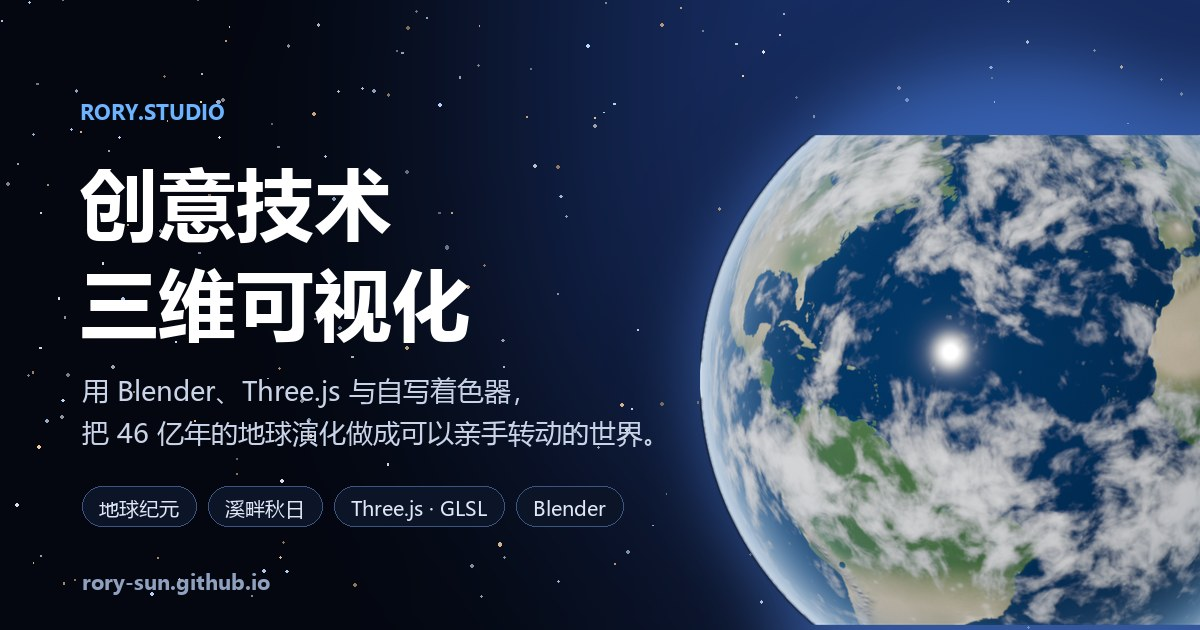
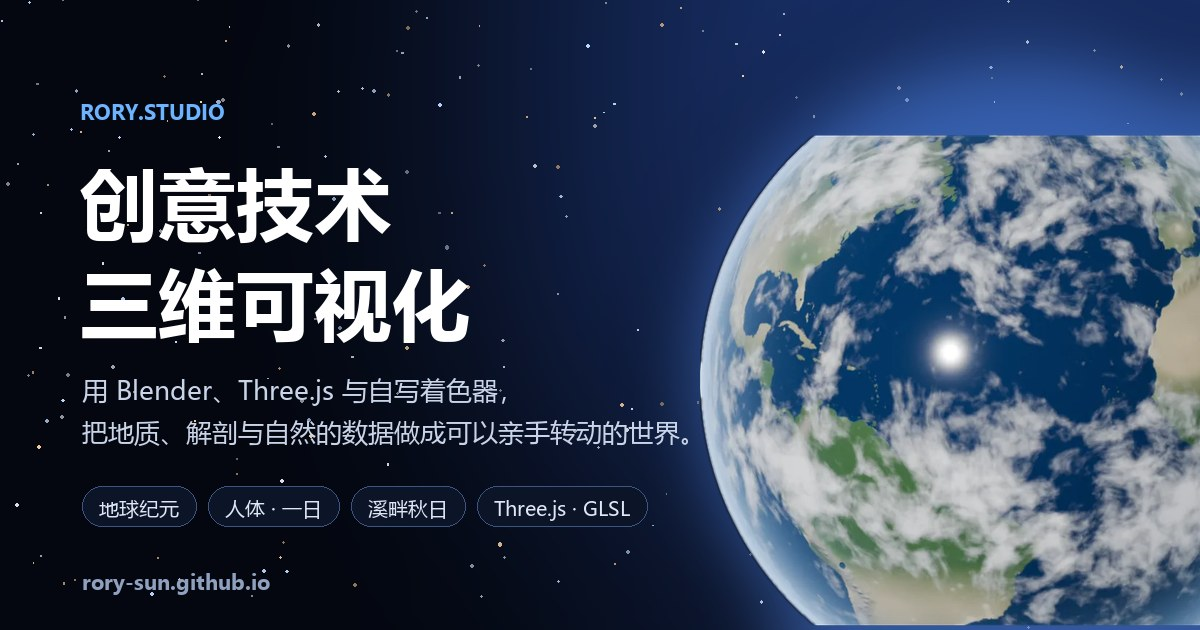
Add 人体 · 一日 as the second product; derive a darker per-product accent for the light theme
人体 · 一日 (https://rory-sun.github.io/blender-designer/anatomy/) is a separate product, not a mode of
溪畔秋日 - 2331 real anatomical parts from Z-Anatomy / BodyParts3D, seven toggleable systems, a 24h
timeline driving organ rhythms. It goes second so the three products read as a contracting scale:
a planet's 4.6 billion years, a body's day, a village's afternoon.

- products.js: new record with a self-hosted 16:9 poster cropped from the live app
- deliberately NO embed. Measured: the GLB alone is 28.9MB and the three-column lab UI never finished
  loading in a 1000x563 frame. New optional `demoNote` field carries the reason under the button;
  validate-products.mjs and site.js know about it
- hero: the lede named 地球纪元 as "the latest work" and all three stats came from it, which stopped
  being true with a third product. Now the lede names all three and the stats span them
- meta description, og:description and og.jpg regenerated for three products; the og generator is now
  a committed script (scripts/make-og.py) instead of a throwaway
- light theme: products set --accent-raw, and the light theme derives a 68%-darkened --accent from it.
  The raw values are chosen for the dark ground, which left them too light for 12px text (地球纪元's
  #3d8ee6 was only 3.2:1 on #f3f5fa). All three products now clear 4.5:1
- screenshots.mjs: await img.decode() rather than img.complete, which was capturing black posters
[…]

Changed region(s): [[0.0617, 0.6032, 0.5858, 0.7238], [0.185, 0.754, 0.5242, 0.8444], [0.74, 0.9651, 0.8017, 0.9952]]

diff --git a/index.html b/index.html
@@ -5,7 +5,7 @@
   <script>try{var t=localStorage.getItem('rory-theme');if(t==='light'||t==='dark')document.documentElement.dataset.theme=t}catch(e){}</script>
   <meta name="viewport" content="width=device-width, initial-scale=1" />
   <title>Rory · 创意技术与三维可视化</title>
-  <meta name="description" content="Rory 的个人网站：作品、产品与实验。主打产品「地球纪元」——一个用 Blender 与 Three.js 打造的 46 亿年地球演化交互平台。" />
+  <meta name="description" content="Rory 的个人网站：用 Blender、Three.js 与自写着色器做的三件交互式三维作品——回放 46 亿年的「地球纪元」、由真实解剖数据构建的「人体 · 一日」、可以慢下来的「溪畔秋日」。" />
   <link rel="canonical" href="https://rory-sun.github.io/" />
   <meta name="theme-color" content="#04070f" />
   <meta name="author" content="Rory" />
@@ -16,7 +16,7 @@
   <meta property="og:locale" content="zh_CN" />
   <meta property="og:url" content="https://rory-sun.github.io/" />
   <meta property="og:title" content="Rory · 创意技术与三维可视化" />
-  <meta property="og:description" content="用 Blender、Three.js 与自写着色器，把 46 亿年的地球演化做成可以亲手转动的世界。作品：地球纪元、溪畔秋日。" />
+  <meta property="og:description" content="用 Blender、Three.js 与自写着色器，把地质、解剖与自然的数据做成可以亲手转动的世界。三件作品：地球纪元、人体 · 一日、溪畔秋日。" />
   <meta property="og:image" content="https://rory-sun.github.io/site/og.jpg" />
   <meta property="og:image:secure_url" content="https://rory-sun.github.io/site/og.jpg" />
   <meta property="og:image:type" content="image/jpeg" />
@@ -25,7 +25,7 @@
   <meta property="og:image:alt" content="RORY.studio：创意技术与三维可视化，配一颗三维渲染的地球" />
   <meta name="twitter:card" content="summary_large_image" />
   <meta name="twitter:title" content="Rory · 创意技术与三维可视化" />
-  <meta name="twitter:description" content="用 Blender、Three.js 与自写着色器，把 46 亿年的地球演化做成可以亲手转动的世界。" />
+  <meta name="twitter:description" content="用 Blender、Three.js 与自写着色器，把地质、解剖与自然的数据做成可以亲手转动的世界。" />
   <meta name="twitter:image" content="https://rory-sun.github.io/site/og.jpg" />
   <meta name="twitter:image:alt" content="RORY.studio：创意技术与三维可视化，配一颗三维渲染的地球" />
 
@@ -62,14 +62,14 @@
       <div class="hero-text reveal">
         <div class="eyebrow">Rory · 创意技术与三维可视化</div>
         <h1>我把复杂的数据与故事，<br />做成可以<em>亲手转动</em>的世界。</h1>
-        <p class="lede">用 Blender、Three.js 与自写着色器构建沉浸式的交互体验。最近的作品是「地球纪元」——在一颗逼真的三维地球上回放 46 亿年的行星演化与 30 万年的人类迁徙，完全离线运行。</p>
+        <p class="lede">用 Blender、Three.js 与自写着色器，把地质、解剖与自然的数据做成可以亲手转动的世界。目前有三件作品：一颗回放 46 亿年的地球、一具随一天变化的人体、一座可以慢下来的山村。</p>
         <div class="hero-actions">
           <a class="btn primary" href="#products">查看产品</a>
           <a class="btn ghost" href="#contact">与我合作</a>
         </div>
         <ul class="hero-stats">
           <li><b>46 亿年</b><span>可回放的地球历史</span></li>
-          <li><b>8K</b><span>Blender 烘焙行星贴图</span></li>
+          <li><b>2331</b><span>真实解剖部件</span></li>
           <li><b>0</b><span>外部 API 依赖</span></li>
         </ul>
         <a class="hero-scroll" href="#about" aria-label="向下浏览">

diff --git a/src/site.js b/src/site.js
@@ -10,22 +10,24 @@ import './globe.js';
 const esc = (t) => String(t ?? '').replace(/[&<>"]/g, (c) => ({ '&': '&amp;', '<': '&lt;', '>': '&gt;', '"': '&quot;' }[c]));
 function posterHTML(p) {
   if (p.poster) return `<img class="demo-poster" src="${esc(p.poster)}" alt="${esc(p.title)} 预览" loading="lazy" decoding="async" />`;
-  return `<div class="demo-poster placeholder" style="--accent:${esc(p.accent || '#3d8ee6')}"><span class="ph-emoji">${p.emoji || '✦'}</span><span class="ph-title">${esc(p.title)}</span></div>`;
+  return `<div class="demo-poster placeholder" style="--accent-raw:${esc(p.accent || '#3d8ee6')}"><span class="ph-emoji">${p.emoji || '✦'}</span><span class="ph-title">${esc(p.title)}</span></div>`;
 }
 function showcaseHTML(p, i) {
   const tags = (p.tags || []).map((t) => `<span class="pill">${esc(t)}</span>`).join('');
   const feats = (p.features || []).map((f) => `<li><span class="feature-icon">${f.icon || '✦'}</span><b>${esc(f.title)}</b><span>${esc(f.text)}</span></li>`).join('');
   // a url starting with '#' is a placeholder: the project is not published yet
   const placeholder = !p.url || p.url.startsWith('#');
+  // demoNote overrides the default line under the launch button (e.g. why a project has no embed)
+  const hint = (t) => `<div class="demo-hint">${esc(t)}</div>`;
   const embedBtn = p.embed
-    ? `<button class="btn primary big" data-launch="${esc(p.id)}">▶ 启动交互演示</button><div class="demo-hint">在本页内直接运行 · 建议使用桌面浏览器</div>`
+    ? `<button class="btn primary big" data-launch="${esc(p.id)}">▶ 启动交互演示</button>${hint(p.demoNote || '在本页内直接运行 · 建议使用桌面浏览器')}`
     : placeholder
-      ? `<span class="btn ghost big disabled">在线演示即将上线</span><div class="demo-hint">项目已完成，正在准备公网部署</div>`
-      : `<a class="btn primary big" href="${esc(p.url)}" target="_blank" rel="noopener">打开项目 ↗</a>`;
+      ? `<span class="btn ghost big disabled">在线演示即将上线</span>${hint(p.demoNote || '项目已完成，正在准备公网部署')}`
+      : `<a class="btn primary big" href="${esc(p.url)}" target="_blank" rel="noopener">打开项目 ↗</a>${p.demoNote ? hint(p.demoNote) : ''}`;
   const openLink = placeholder ? '' : `<a class="btn primary" href="${esc(p.url)}" target="_blank" rel="noopener">打开完整版 ↗</a>`;
   const fullLink = placeholder ? '' : `<a class="demo-fullscreen" href="${esc(p.url)}" target="_blank" rel="noopener" title="在新标签页打开完整版">全屏打开 ↗</a>`;
   return `
-  <article class="showcase reveal" id="${esc(p.id)}" style="--accent:${esc(p.accent || '#3d8ee6')}">
+  <article class="showcase reveal" id="${esc(p.id)}" style="--accent-raw:${esc(p.accent || '#3d8ee6')}">
     <header class="showcase-head">
       <div>
         <div class="eyebrow">${String(i + 1).padStart(2, '0')} · ${esc(p.kicker || '')}</div>
@@ -47,7 +49,7 @@ function showcaseHTML(p, i) {
 function soonHTML(p) {
   // small card; with a url it becomes a link (e.g. a new mode inside an existing product)
   const inner = `<div class="card-thumb placeholder"><span>${p.emoji || '✦'}</span></div><div class="card-body"><div class="eyebrow">${esc(p.kicker || '研发中')}</div><h3>${esc(p.title)}${p.url ? ' <span class="card-arrow">↗</span>' : ''}</h3><p>${esc(p.desc)}</p></div>`;
-  const style = `style="--accent:${esc(p.accent || '#3d8ee6')}"`;
+  const style = `style="--accent-raw:${esc(p.accent || '#3d8ee6')}"`;
   return p.url
     ? `<a class="card reveal card-link" href="${esc(p.url)}" target="_blank" rel="noopener" ${style}>${inner}</a>`
     : `<article class="card soon reveal" ${style}>${inner}</article>`;

diff --git a/src/products.js b/src/products.js
@@ -8,8 +8,11 @@
 //   accent    占位海报与高光颜色
 //   url       完整版链接（新标签页打开）
 //   embed     可选：页内嵌入地址（为空则不提供“页内演示”按钮）
+//   demoNote  可选：演示按钮下方的一行说明（覆盖默认文案）
 //   features  亮点列表 [{ icon, title, text }]
 //   status    'live' | 'soon'（soon 显示为小卡片）
+//
+// 展示顺序即叙事顺序：行星的 46 亿年 → 身体的一天 → 村庄的一个下午，尺度层层收缩。
 export const PRODUCTS = [
   {
     id: 'earth-chronicle',
@@ -26,6 +29,27 @@ export const PRODUCTS = [
       { icon: '🌍', title: '地球演化', text: '冥古宙岩浆海、大氧化事件、两次雪球地球、盘古大陆聚合与裂解、白垩纪高海平面、希克苏鲁伯撞击、第四纪冰期——全部由时间轴驱动，并附古地理小地图。' },
       { icon: '🧭', title: '人类迁徙', text: '30 万年间 50 余条迁徙路线逐步绘出，40 个考古遗址随时间点亮，人口、海平面与冰盖边缘实时统计。' },
       { icon: '✨', title: '逼真地球', text: '4K/8K 程序化地形、法线与生物群系贴图，大气散射、云影、海面高光与城市夜灯；月球同样在 Blender 中程序化建模。' },
+    ],
+    status: 'live',
+  },
+  {
+    id: 'human-atlas',
+    kicker: '交互式三维人体',
+    title: '人体 · 一日',
+    subtitle: 'A day in the body',
+    desc: '2331 个真实解剖部件在浏览器里重新组装成一个人。网格来自 Z-Anatomy 与 BodyParts3D 的开放医学数据，在 Blender 里整理、着色、导出，不是用球体和胶囊拼出来的近似。拖动一天的时间轴，看心脏、肺与消化如何随睡眠、进食和运动改变；七个系统各自可以显隐，外壳可以透明，整个人可以展开成一张解剖爆炸图。',
+    tags: ['真实解剖数据', '2331 个部件', '系统显隐', '一天时间轴', 'Blender 导出'],
+    poster: '/site/human_atlas_1200.webp',
+    accent: '#c98f4e',
+    emoji: '🫀',
+    url: 'https://rory-sun.github.io/blender-designer/anatomy/',
+    // no embed: the model alone is 28MB, and the three-column lab UI needs far more room
+    // than the 16:9 demo frame gives it
+    demoNote: '解剖模型约 28MB · 建议在新标签页全屏体验',
+    features: [
+      { icon: '🫀', title: '真实的身体', text: '解剖网格来自 Z-Anatomy 与 BodyParts3D 的开放医学数据，在 Blender 中整理导出；骨骼、肺与肌肉使用随视角变化的透视材质，叠起来是 X 光轮廓而不是白雾。' },
+      { icon: '🕘', title: '身体的一天', text: '拖动时间轴走完 24 小时，睡眠、进食、日常与运动四种状态驱动心率与呼吸；器官节律与时间快进是两套独立的控制。' },
+      { icon: '🔍', title: '展开到部件', text: '一次点击把整个人展开成 2331 个独立命名的部件，可以停在任意展开程度，也可以搜索「肾」「股骨」或英文原名定位并高亮。' },
     ],
     status: 'live',
   },

diff --git a/src/site.css b/src/site.css
@@ -262,6 +262,14 @@ h1 em { font-style: normal; color: transparent; background: var(--h1-grad); -web
 @media (max-width: 560px) { .pipeline { grid-template-columns: 1fr; } .hero-stats { gap: 20px; } }
 
 /* ---------------- data-driven showcase ---------------- */
+/* Each product carries its own --accent-raw (set inline from products.js). The per-product accent
+   is used for the eyebrow, feature icons and the ambient wash. Raw values are picked to sing on the
+   dark ground, which leaves them too light for 12px text on the light theme (#3d8ee6 is only 3.2:1
+   on #f3f5fa), so the light theme derives a darkened accent instead of using the raw value. */
+.showcase, .card, .demo-poster.placeholder { --accent: var(--accent-raw, #6cb4ff); }
+:root[data-theme="light"] .showcase,
+:root[data-theme="light"] .card,
+:root[data-theme="light"] .demo-poster.placeholder { --accent: color-mix(in srgb, var(--accent-raw, #6cb4ff) 68%, #000); }
 .product-tabs { display: flex; gap: 8px; flex-wrap: wrap; margin: -14px 0 34px; }
 .product-tabs a, .product-tabs .tab-soon { font-size: 13px; padding: 8px 16px; border-radius: 999px; border: 1px solid var(--border); background: var(--panel); color: var(--pill-text); }
 .product-tabs a:hover { background: var(--accent-soft); }

diff --git a/eslint.config.js b/eslint.config.js
@@ -2,7 +2,8 @@ import js from '@eslint/js';
 import globals from 'globals';
 
 export default [
-  { ignores: ['dist/', 'node_modules/'] },
+  // *-tmp.mjs are throwaway probe/analysis scripts (often written by agents); never lint them
+  { ignores: ['dist/', 'node_modules/', '**/*-tmp.mjs', '**/*-tmp.js'] },
   js.configs.recommended,
   {
     files: ['src/**/*.js'],

diff --git a/scripts/make-og.py b/scripts/make-og.py
@@ -1,0 +1,89 @@
+"""Generate the 1200x630 Open Graph share image (public/site/og.jpg).
+
+Run after changing the tagline or the product list:
+    python scripts/make-og.py
+Needs Pillow and the Microsoft YaHei / Segoe UI fonts that ship with Windows.
+"""
+import os
+import random
+from PIL import Image, ImageChops, ImageDraw, ImageFont, ImageFilter
+
+ROOT = os.path.dirname(os.path.dirname(os.path.abspath(__file__)))
+SITE = os.path.join(ROOT, "public", "site")
+W, H = 1200, 630
+
+TITLE_LINES = ["创意技术", "三维可视化"]
+SUB_LINES = [
+    "用 Blender、Three.js 与自写着色器，",
+    "把地质、解剖与自然的数据做成可以亲手转动的世界。",
+]
+PILLS = ["地球纪元", "人体 · 一日", "溪畔秋日", "Three.js · GLSL"]
+
+FONT_BOLD = r"C:\Windows\Fonts\msyhbd.ttc"
+FONT_REG = r"C:\Windows\Fonts\msyh.ttc"
+FONT_EN = r"C:\Windows\Fonts\segoeuib.ttf"
+
+# ---- background: deep navy, a soft blue glow, a scatter of stars
+bg = Image.new("RGB", (W, H), (4, 7, 15))
+glow = Image.new("RGB", (W, H), (0, 0, 0))
+ImageDraw.Draw(glow).ellipse((520, -260, 1500, 620), fill=(22, 44, 96))
+glow = glow.filter(ImageFilter.GaussianBlur(160))
+bg = ImageChops.add(bg, glow.point(lambda v: int(v * 0.9)))
+
+random.seed(7)
+sd = ImageDraw.Draw(bg)
+for _ in range(260):
+    x, y = random.random() * W, random.random() * H
+    r = random.random() * 1.3 + 0.3
+    a = random.randint(120, 255)
+    c = random.choice([(235, 240, 255), (190, 215, 255), (255, 214, 170)])
+    sd.ellipse((x - r, y - r, x + r, y + r), fill=tuple(int(v * a / 255) for v in c))
+
+# ---- the Earth, masked to a circle with an outer halo
+src = Image.open(os.path.join(SITE, "earth_preview_1200.webp")).convert("RGBA")
+gray = src.convert("L")
+bbox = gray.point(lambda v: 255 if v > 28 else 0).getbbox()
+cx, cy = (bbox[0] + bbox[2]) // 2, (bbox[1] + bbox[3]) // 2
+rad = max(bbox[2] - bbox[0], bbox[3] - bbox[1]) // 2
+crop = src.crop((cx - rad, cy - rad, cx + rad, cy + rad))
+
+D, EX, EY = 640, 700, 60
+crop = crop.resize((D, D), Image.LANCZOS)
+mask = Image.new("L", (D, D), 0)
+ImageDraw.Draw(mask).ellipse((0, 0, D - 1, D - 1), fill=255)
+mask = mask.filter(ImageFilter.GaussianBlur(1.2))
+
+halo = Image.new("RGBA", (W, H), (0, 0, 0, 0))
+ImageDraw.Draw(halo).ellipse((EX - 30, EY - 30, EX + D + 30, EY + D + 30), fill=(90, 150, 255, 120))
+halo = halo.filter(ImageFilter.GaussianBlur(45))
+
+bg = bg.convert("RGBA")
+bg.alpha_composite(halo)
+earth = Image.new("RGBA", (D, D), (0, 0, 0, 0))
+earth.paste(crop, (0, 0), mask)
+bg.alpha_composite(earth, (EX, EY))
+
+# ---- text
+d = ImageDraw.Draw(bg)
+d.text((80, 96), "RORY.STUDIO", font=ImageFont.truetype(FONT_EN, 22), fill=(108, 180, 255))
+title = ImageFont.truetype(FONT_BOLD, 78)
+for i, line in enumerate(TITLE_LINES):
+    d.text((80, 150 + i * 100), line, font=title, fill=(255, 255, 255))
+
+sub = ImageFont.truetype(FONT_REG, 26)
+for i, line in enumerate(SUB_LINES):
+    d.text((82, 372 + i * 42), line, font=sub, fill=(201, 212, 232))
+
+pf = ImageFont.truetype(FONT_REG, 20)
+x = 82
+for label in PILLS:
+    w = d.textlength(label, font=pf)
+    d.rounded_rectangle((x, 486, x + w + 34, 526), radius=20, fill=(12, 20, 40), outline=(60, 85, 130), width=1)
+    d.text((x + 17, 494), label, font=pf, fill=(223, 231, 245))
+    x += w + 46
+
+d.text((82, 566), "rory-sun.github.io", font=ImageFont.truetype(FONT_EN, 22), fill=(144, 161, 192))
+
+out = os.path.join(SITE, "og.jpg")
+bg.convert("RGB").save(out, "JPEG", quality=88, optimize=True, progressive=True)
+print(f"{out}  {os.path.getsize(out) // 1024} KB")

diff --git a/docs/design-review.md b/docs/design-review.md
@@ -40,6 +40,12 @@ npm run build && npm run screenshots
 - 所有动效在 `prefers-reduced-motion: reduce` 下必须退化。
 - Lighthouse 的性能分在 CI 里因为没有 GPU 而偏低，这部分可以忽略；可访问性、最佳实践、SEO 三项必须保持全绿。
 
+### 截图脚本的坑
+
+`npm run screenshots` 必须在 `npm run build` **之后**跑，否则拍的是上一次的构建产物。判断方法：比较 `dist/` 和 `screenshots/` 的时间戳，或者看整页高度对不对。
+
+海报是懒加载的，只等 `img.complete` 会拍到黑框，必须等 `img.decode()`。
+
 ## 已知的待办候选
 
 按优先级排列，每次复审时重新评估：
